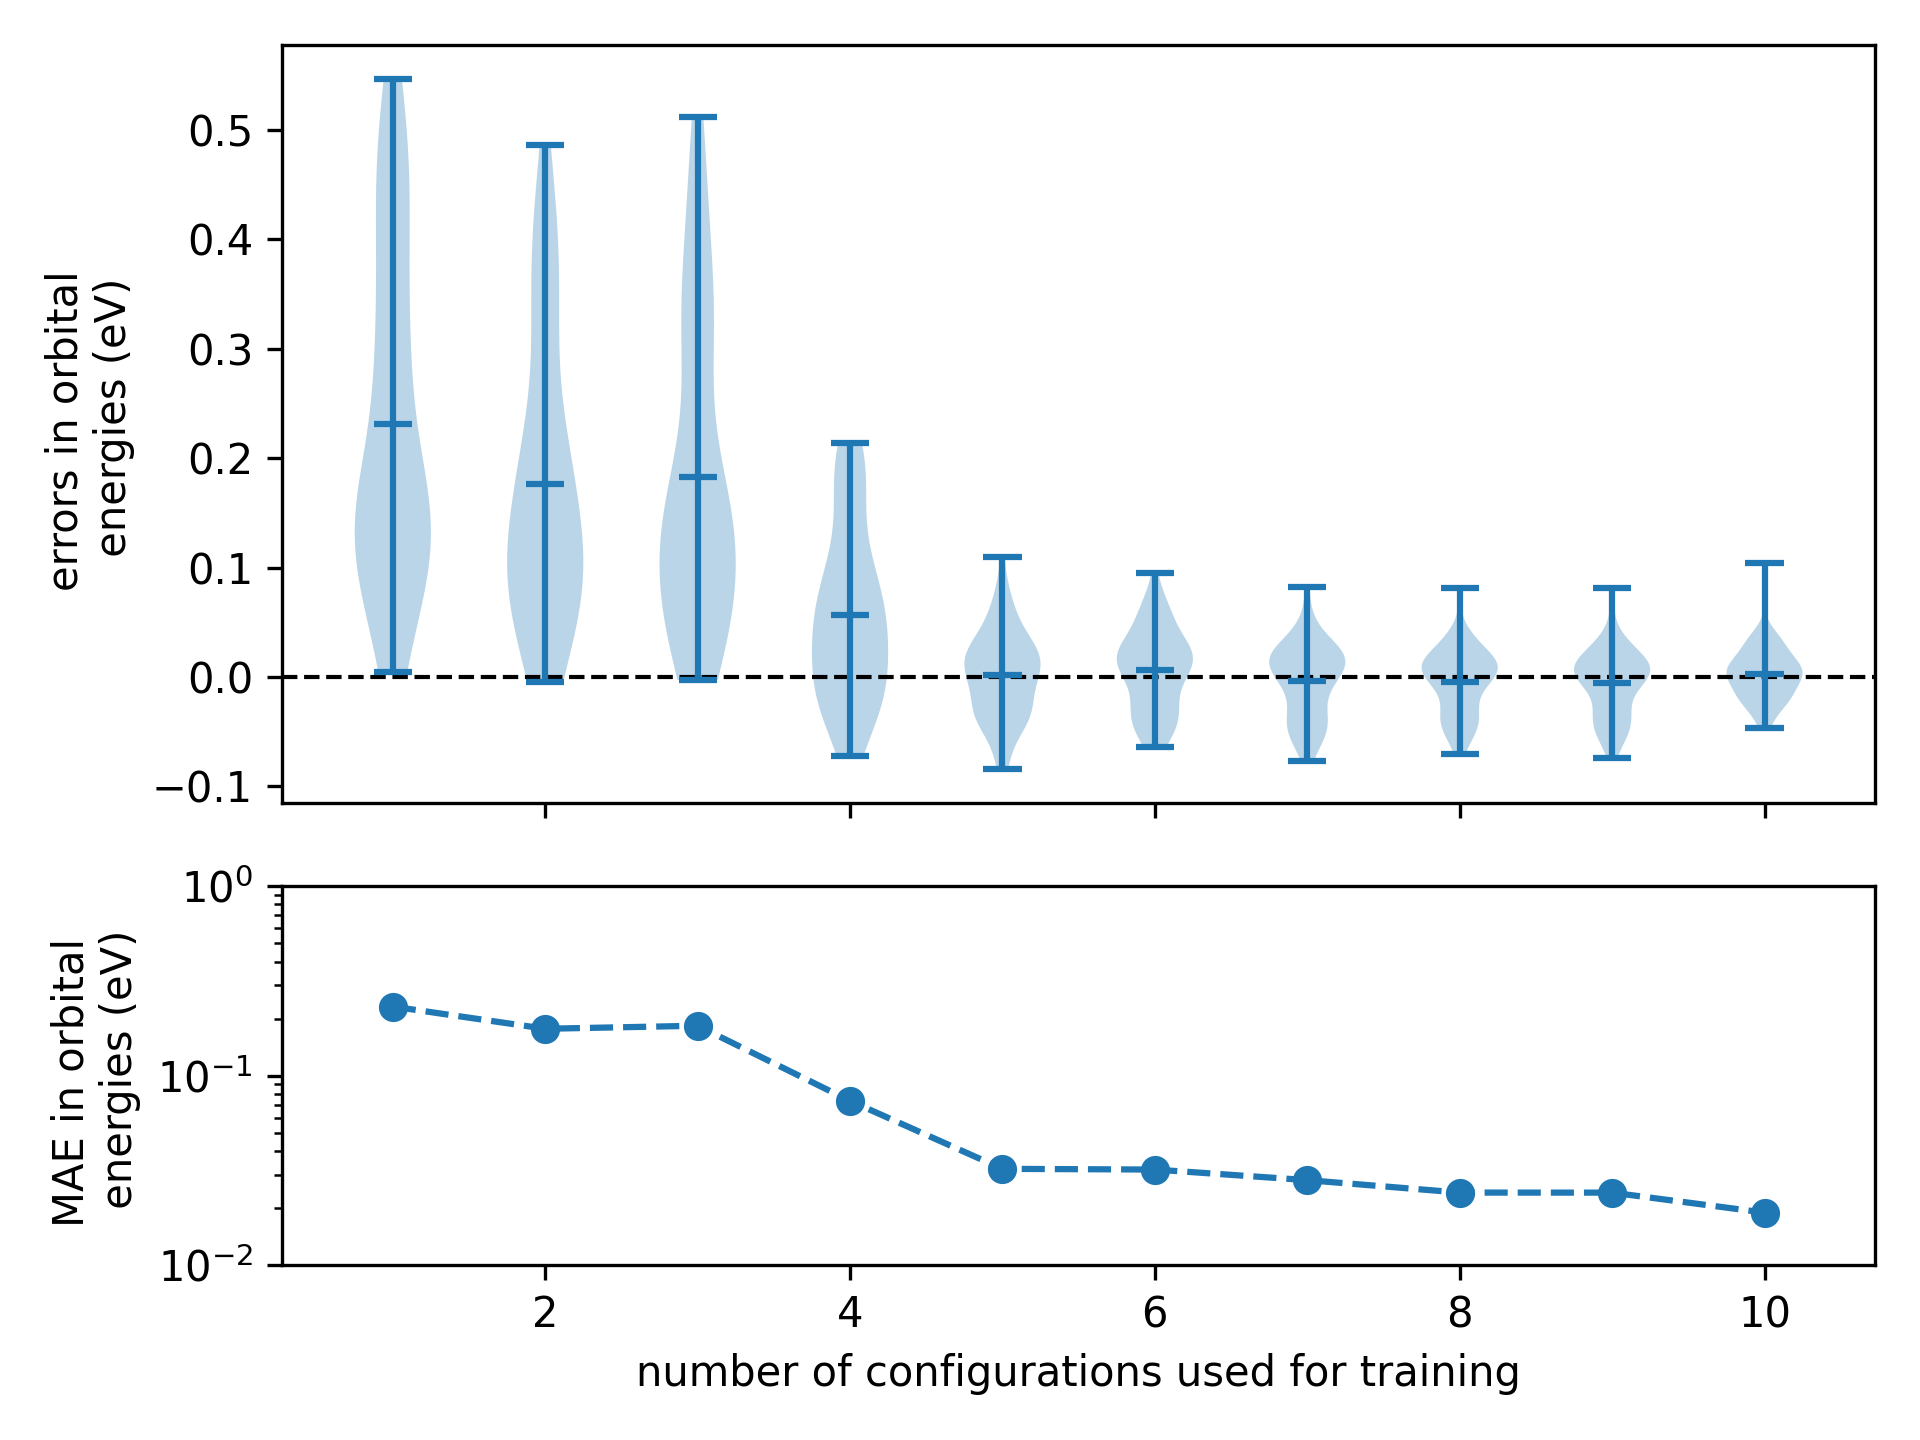
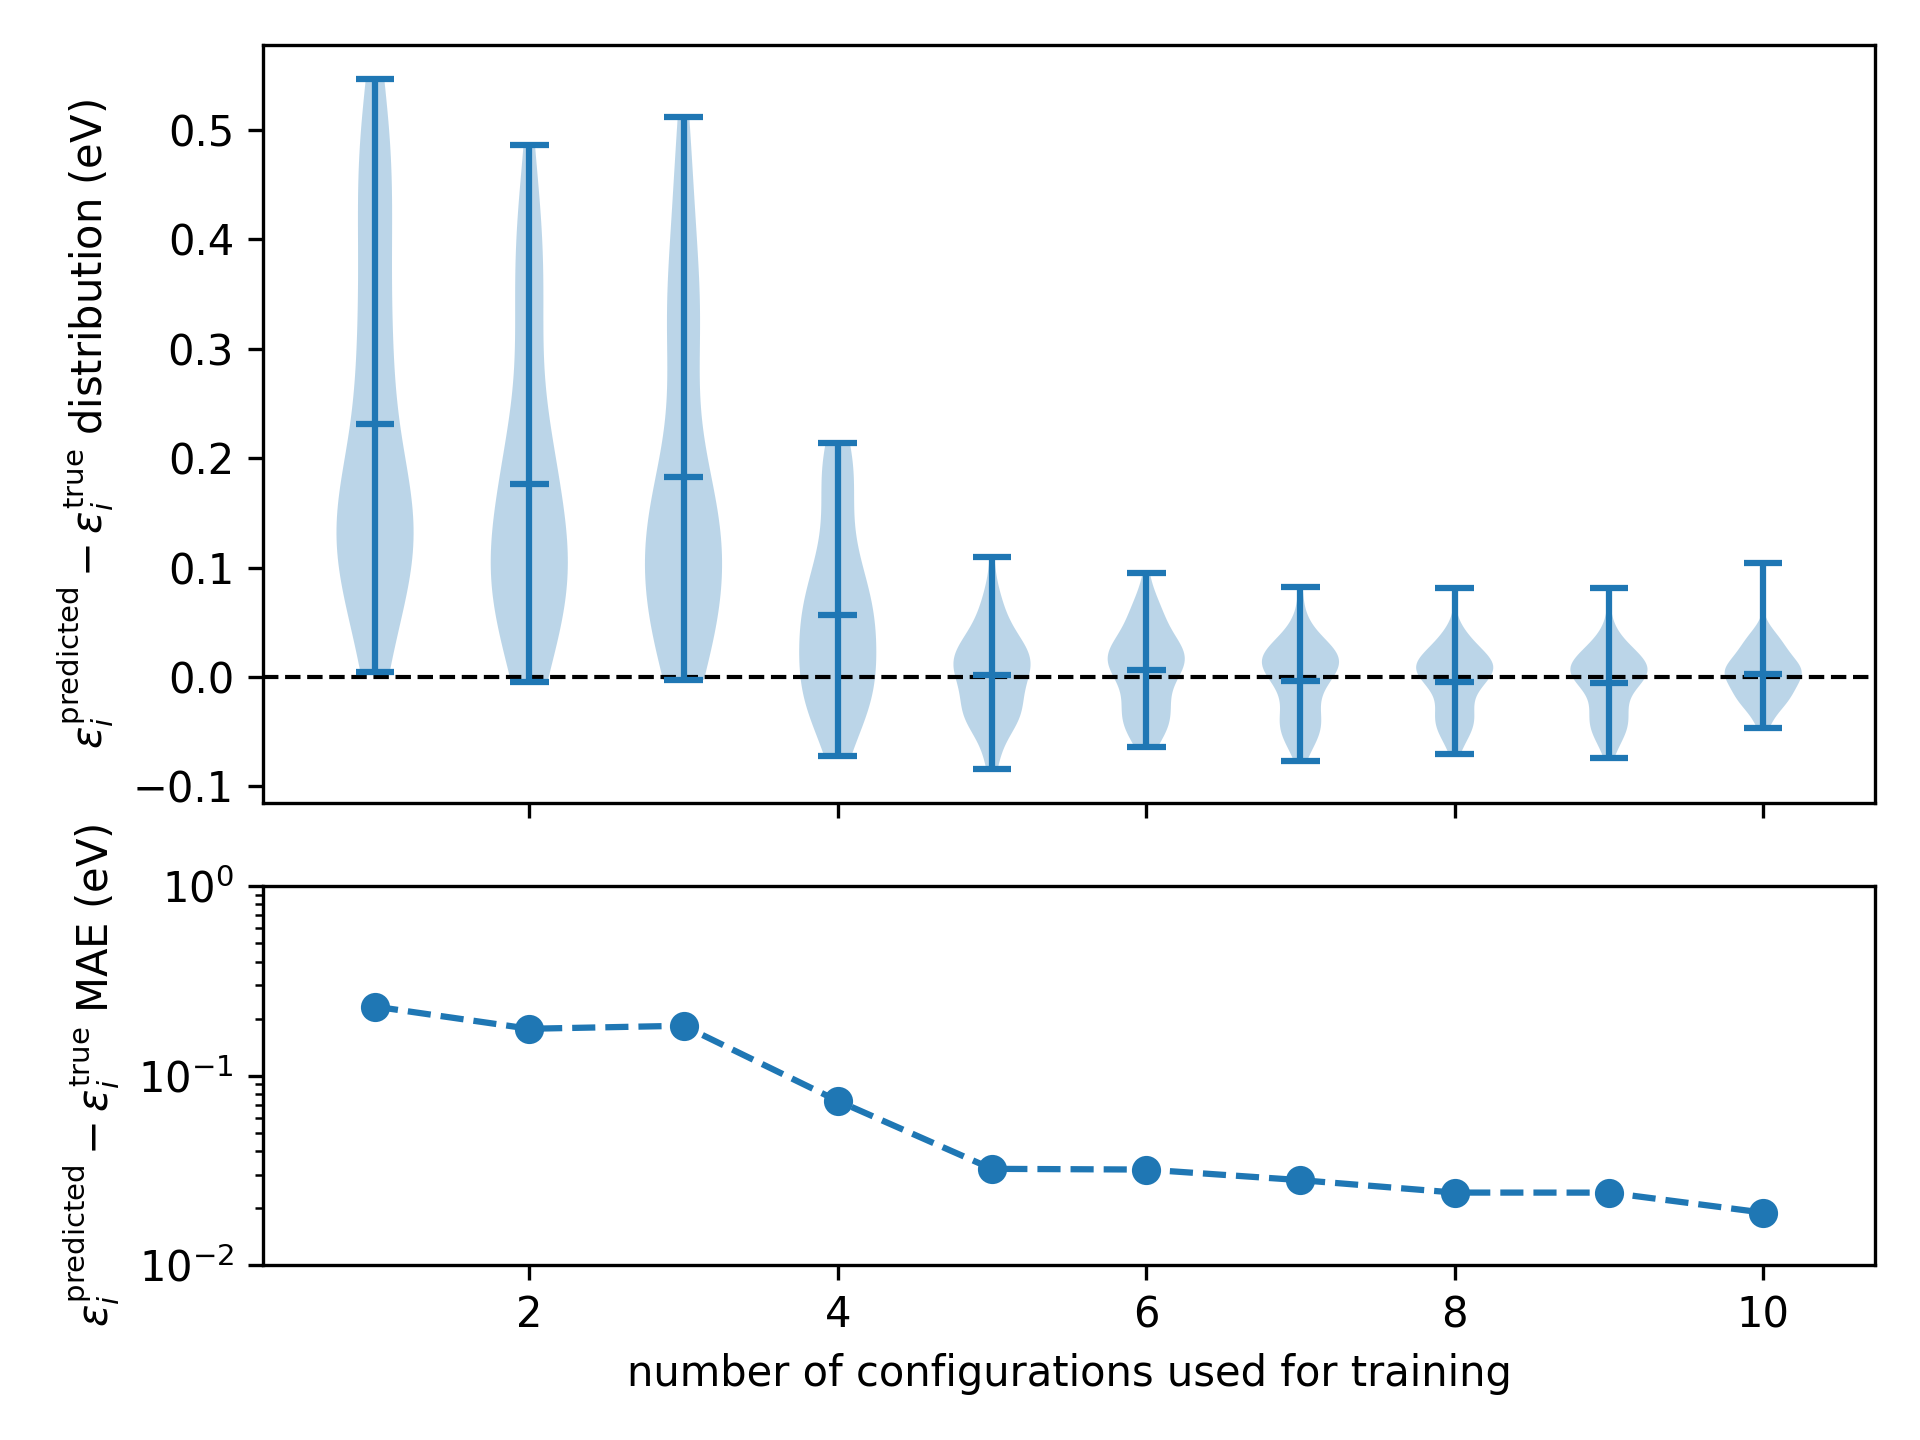
Removed no longer relevant warnings to ML workflows

diff --git a/tutorials/tutorial_5/04-advanced-testing/train_and_verify.py b/tutorials/tutorial_5/04-advanced-testing/train_and_verify.py
@@ -82,13 +82,13 @@ fig, axarr = plt.subplots(2, 1, sharex=True, gridspec_kw={'height_ratios': [2, 1
 ax = axarr[0]
 ax.axhline(0, color='black', linestyle='--', lw=1)
 ax.violinplot(errors, showmeans=True)
-ax.set_ylabel('errors in orbital \n energies (eV)')
+ax.set_ylabel(r'$\varepsilon^\mathsf{predicted}_i - \varepsilon^\mathsf{true}_i$ distribution (eV)')
 
 # MAE plot
 ax = axarr[1]
 ax.plot(range(1, n_train + 1), [np.mean(np.abs(err)) for err in errors], 'o--')
 ax.set_yscale('log')
-ax.set_ylabel('MAE in orbital \n energies (eV)')
+ax.set_ylabel(r'$\varepsilon^\mathsf{predicted}_i - \varepsilon^\mathsf{true}_i$ MAE (eV)')
 ax.set_xlabel('number of configurations used for training')
 ax.set_ylim(1e-2, 1e0)
 

diff --git a/docs/tutorials/tutorial_5.rst b/docs/tutorials/tutorial_5.rst
@@ -40,11 +40,11 @@ Note that this ``.xyz`` file contains five confiugurations of water.
 Finally, to enable the machine-learning process we provide a ``ml`` block and set ``train`` to ``true``:
 
 .. literalinclude:: ../../tutorials/tutorial_5/01-train/h2o_train.json
-  :lines: 13-19
+  :lines: 13-21
   :linenos:
   :lineno-start: 13
 
-The remaining keywords in the ``ml`` block are the hyperparameters of the machine learning model.
+The remaining keywords in the ``ml`` block specify the fact that we will predicting the screening parameters via ridge regression from a descriptor constructed from the orbital densities. The remaining keywords are the descriptor hyperparameters.
 
 .. note::
 
@@ -89,7 +89,7 @@ Using :download:`this script <../../tutorials/tutorial_5/02-predict/plot.py>` we
 
 
 .. figure:: ../../tutorials/tutorial_5/02-predict/predicting.png
-   :width: 500
+   :width: 600
    :align: center
    :alt: The distribution of the orbital energies across the screenshots (computed using machine-learned screening parameters)
 
@@ -113,28 +113,31 @@ Running this calculation, you will see the same output as in the previous calcul
 We can compare the results using the :download:`accompanying python script <../../tutorials/tutorial_5/03-test/plot.py>`, which extracts the orbital energies from the ``.kwf`` file and generates the following plot
 
 .. figure:: ../../tutorials/tutorial_5/03-test/testing.png
-   :width: 500
-   :align: center
-   :alt: the accuracy of the orbital energies when using machine-learned screening parameters
-   
-   The accuracy of the orbital energies when using machine-learned screening parameters (:math:`\varepsilon_i^\mathsf{predicted}`) relative to those calculated ab initio (:math:`\varepsilon_i^\mathsf{true}`) across the 15 test configurations.
+  :width: 700
+  :align: center
+  :alt: the accuracy of the orbital energies when using machine-learned screening parameters
+  
+  The accuracy of the orbital energies when using machine-learned screening parameters (:math:`\varepsilon_i^\mathsf{predicted}`) relative to those calculated ab initio (:math:`\varepsilon_i^\mathsf{true}`) across the 15 test configurations.
 
-Now we can understand the accuracy of our model: we can expect the orbital energies to be predicted within 40 meV of the ab initio Koopmans result. This is pretty good, given how rudimentary the model is and how little training it required! 
+Now we can understand the accuracy of our model: we can expect the orbital energies to be predicted within 40 meV or so of the ab initio Koopmans result. This is pretty good, given how rudimentary the model is and how little training it required! 
+
+.. note::
+  To really get a sense for the accuracy of this model, try and compare it to the accuracy you achieve when using an average screening parameter for all of the orbitals (set ``estimator`` to ``mean`` and then re-train and re-test).
 
 More advanced testing (extra for experts)
 -----------------------------------------
 
-So far, all of these tasks have relied on the pre-built workflows in the `koopmans` package. However, it is possible to use ``python`` to perform much more bespoke workflows. In `the script provided in the final part of this tutorial <../../tutorials/tutorial_5/04-advanced-testing/train-and-verify.py>` this functionality is leveraged to perform a convergence test on the accuracy of the machine-learning model as the number of training snapshots is increased.
+So far, all of these tasks have relied on the pre-built workflows in the `koopmans` package. However, it is possible to use ``python`` to perform much more bespoke workflows. In :download:`the script provided in the final part of this tutorial <../../tutorials/tutorial_5/04-advanced-testing/train_and_verify.py>`, this functionality is leveraged to perform a convergence test on the accuracy of the machine-learning model as the number of training snapshots is increased.
 
 For more details, refer to the script itself. Running the script generates the following plot
 
 .. figure:: ../../tutorials/tutorial_5/04-advanced-testing/ntrain_convergence.png
-   :width: 500
-   :align: center
-   :alt: The accuracy of the machine-learning model as a function of the number of configurations used during training
-   
-   The accuracy of the machine-learning model as a function of the number of configurations used during training
+  :width: 700
+  :align: center
+  :alt: The accuracy of the machine-learning model as a function of the number of configurations used during training
+  
+  The accuracy of the machine-learning model as a function of the number of configurations used during training
 
-  Here we can see after X training confurations the accuracy of the model saturates.
+Here we can see after five training configurations the model is beginning to saturate.
 
 
